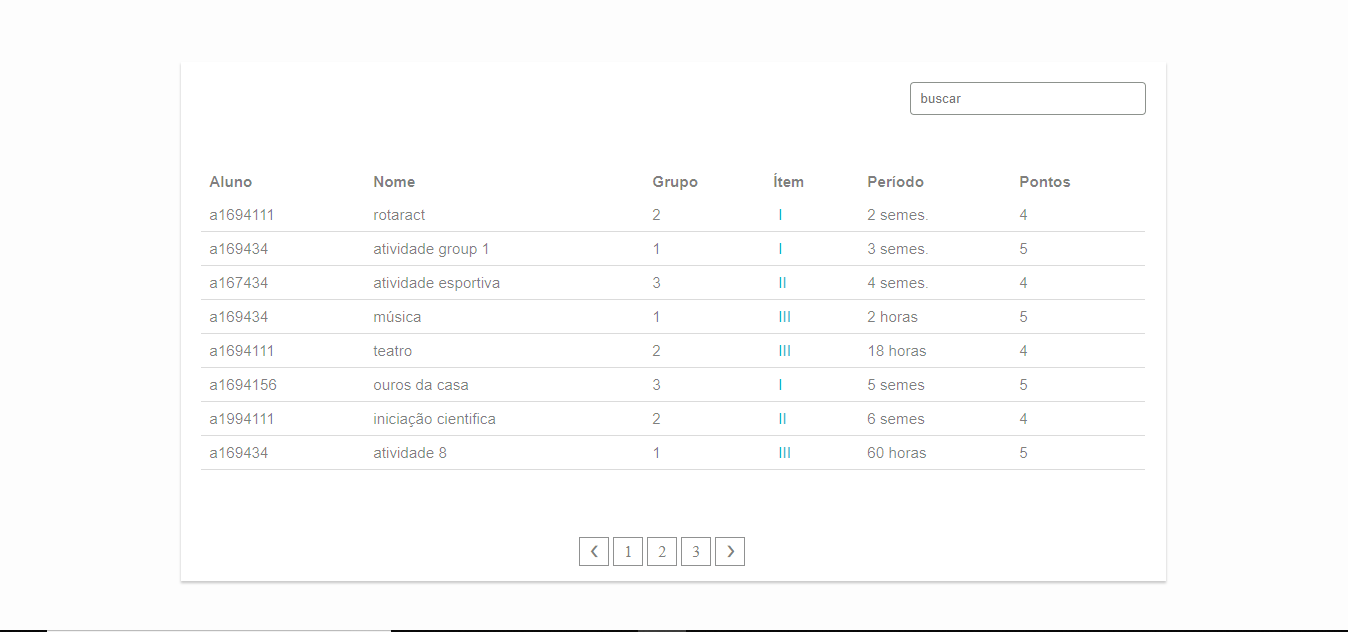
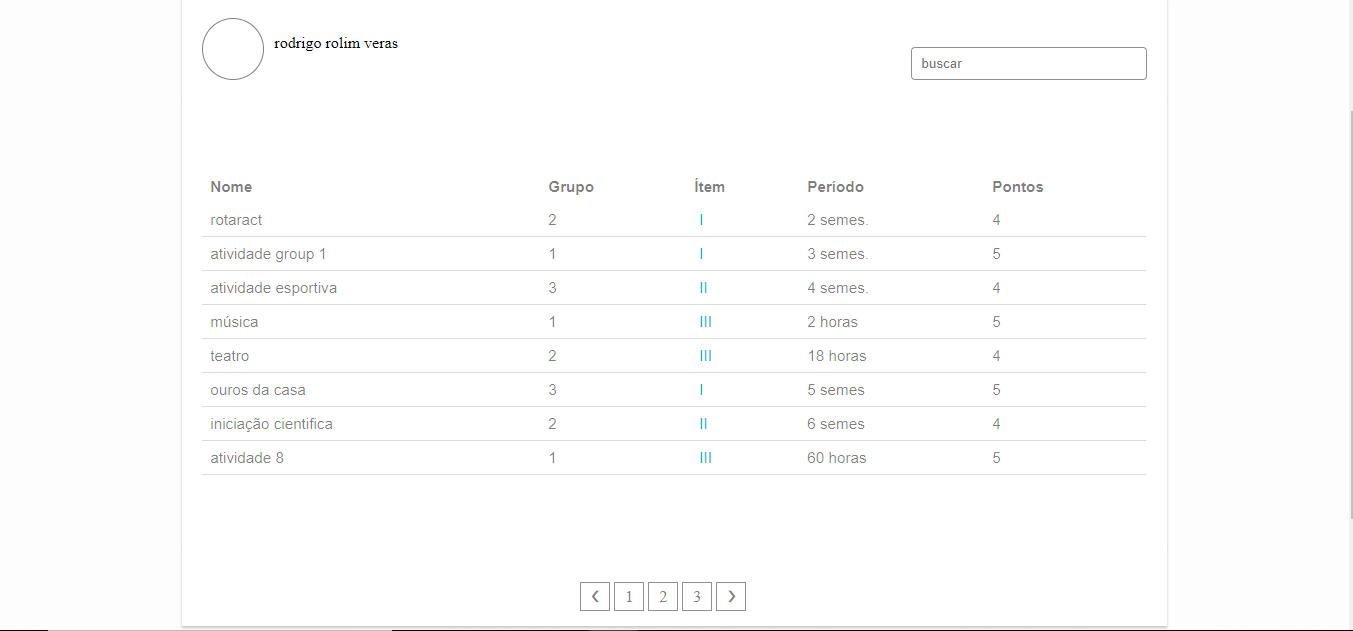
addeds navbar and footer on the table item

diff --git a/items/Professor/DocumentListAllGroups/DocumentListAllGroups.html b/items/Professor/DocumentListAllGroups/DocumentListAllGroups.html
@@ -14,11 +14,10 @@
      padding: 5px 10px;
      color: rgb(126, 127, 128);
    }
-   #entry-box{
+   #entry-box {
      width: 70%;
      display: flex;
      flex-direction: column;
-     align-items: flex-end;
      margin: 0 auto;
      padding: 20px;
      background-color: white;
@@ -35,7 +34,7 @@
    margin: 0 auto;
    padding: 50px 0;
   }
-  table{
+  table {
     font-family: arial, sans-serif;
     font-size: 0.95rem;
     border-collapse: collapse;
@@ -58,7 +57,31 @@
   tbody {
    margin-top: 20px;
   }
+  .header-table, .footer-table {
+    width: 70%;
+    display: flex;
+    flex-direction: row;
+    align-content: flex-start;
+    margin: 0 auto;
+    padding: 20px;
+    background-color: white;
+    box-shadow: 0px 2px 2px 0px rgba(0,0,0,0.2);
+  }
+  .header-table { 
+
+  }
+  .footer-table { 
+
+    z-index: 1;
+  }
+  .student-detail {
+    align-self: flex-start;
+    display: flex;
+    flex-direction: row;
+    width: 75%;
+  }
   .search-sender {
+    align-self: flex-end;
     width: 25%;
     display: flex;
     flex-direction: row;
@@ -77,7 +100,7 @@
     display: flex;
     flex-direction: row;
   }
-  body{
+  body {
     display: flex;
     flex-direction: column;
     margin: 0;
@@ -240,6 +263,18 @@
     position: absolute;
     z-index: 1;
   }
+  .photo {
+    font-family: Verdana, Geneva, Tahoma, sans-serif;
+    font-size: 1.0rem;
+    color: gray;
+    border: 1px solid;
+    padding: 30px;
+    border-radius: 100%;
+    margin-right: 10px;
+  }
+  .photo p {
+    color: gray;
+  }
  </style>
 </head>
 <body>
@@ -268,10 +303,16 @@
     </div>
   </nav>
   <div class="container">
-    <div id="entry-box">
+    <div class="header-table">
+      <div class="student-detail">
+        <span class="photo"></span>
+        <p>rodrigo rolim veras</p>
+      </div>
       <div class="search-sender">
         <input type="text" placeholder="buscar">
       </div>
+    </div>
+    <div id="entry-box">    
       <div class="table">
         <table id="app">
           <thead>
@@ -300,14 +341,14 @@
           </tbody>
         </table>
       </div>
-      <div class="footer-table">
-        <div class="pagination">
-          <span>&#10094;</span>
-          <span>1</span>
-          <span>2</span>
-          <span>3</span>
-          <span>&#10095;</span>
-        </div>
+    </div>
+    <div class="footer-table">
+      <div class="pagination">
+        <span>&#10094;</span>
+        <span>1</span>
+        <span>2</span>
+        <span>3</span>
+        <span>&#10095;</span>
       </div>
     </div>
   </div>
